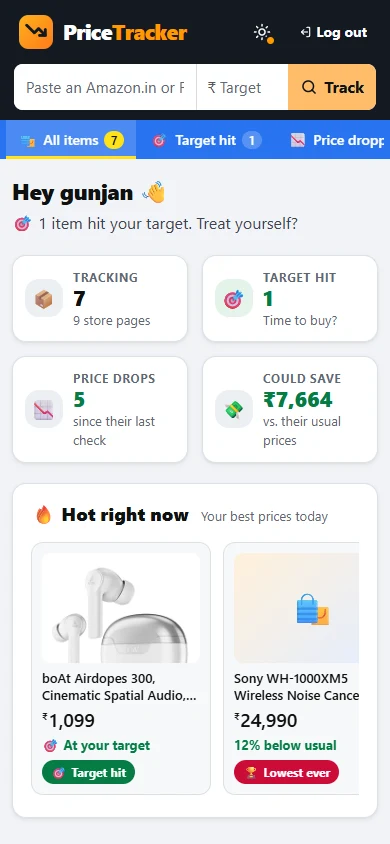
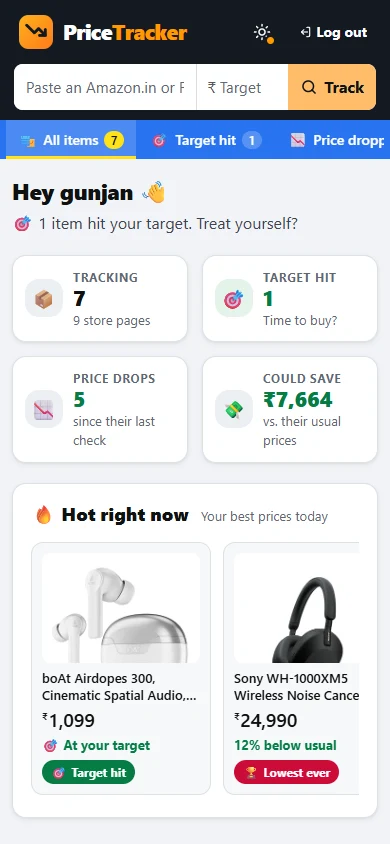
Add a license, tests on GitHub Actions and new screenshots
- LICENSE: the MIT license.
- .github/workflows/tests.yml: on every push and pull request, run the
  Python tests on Python 3.12 and 3.14, on SQLite and on a throwaway
  PostgreSQL 18, and type-check, build and test the dashboard.
- README: a tests badge and a license badge and section; CI ticked off
  "What's next".
- docs/screenshots: retaken from demo data, now with each product's photo.

Changed region(s): [[0.5846, 0.6469, 0.8923, 0.8009]]

diff --git a/README.md b/README.md
@@ -7,6 +7,9 @@
 Paste an Amazon.in or Flipkart link, tell it what you'd like to pay,
 and get a Telegram ping when it's actually a good time to buy.
 
+[![Tests](https://github.com/Gunjanraj7/price-tracker/actions/workflows/tests.yml/badge.svg)](https://github.com/Gunjanraj7/price-tracker/actions/workflows/tests.yml)
+[![License: MIT](https://img.shields.io/badge/License-MIT-yellow.svg)](LICENSE)
+<br>
 ![Python](https://img.shields.io/badge/Python-3.12%2B-3776AB?logo=python&logoColor=white)
 ![FastAPI](https://img.shields.io/badge/FastAPI-API-009688?logo=fastapi&logoColor=white)
 ![React](https://img.shields.io/badge/React-19-61DAFB?logo=react&logoColor=black)
@@ -260,6 +263,8 @@ cd web; npm test                                 # the dashboard's tests
 
 The tests are offline: sample store pages, a fake Telegram and a fake Task
 Scheduler. They never touch your real database, `.env`, bot or scheduled tasks.
+GitHub Actions runs all of them on every push, on Python 3.12 and 3.14 and on
+both databases ([the workflow](.github/workflows/tests.yml)).
 `--postgres` uses `TEST_DATABASE_URL` and wipes that database before each test,
 so give it a database of its own:
 `CREATE DATABASE price_tracker_test OWNER price_tracker;`
@@ -348,11 +353,15 @@ copy the page into `tests/pages/` as a new test.
 
 ## What's next
 
+- [x] Run the tests on every push with GitHub Actions
 - [ ] Put it online: a hosted PostgreSQL, HTTPS, and the daily checks on the server
-- [ ] Run the tests on every push with GitHub Actions
 - [ ] Change your password from the web page
 - [ ] Separate lists for several people
 - [ ] More stores
+
+## License
+
+[MIT](LICENSE): use it, change it, share it; just keep the copyright notice.
 
 ---
 
